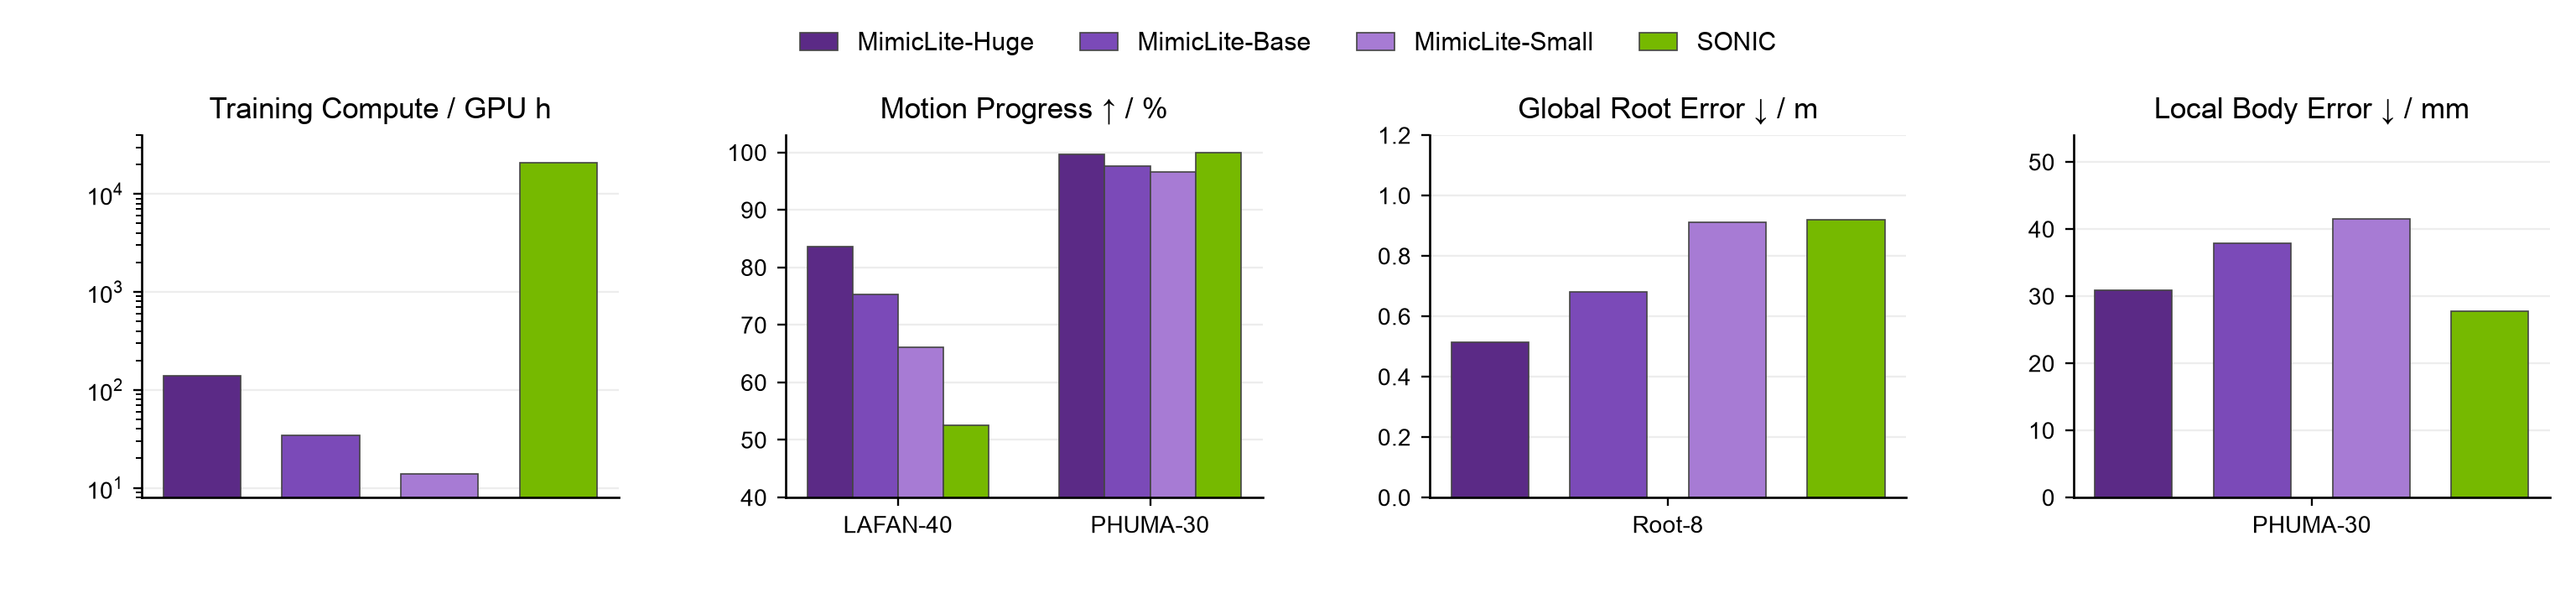
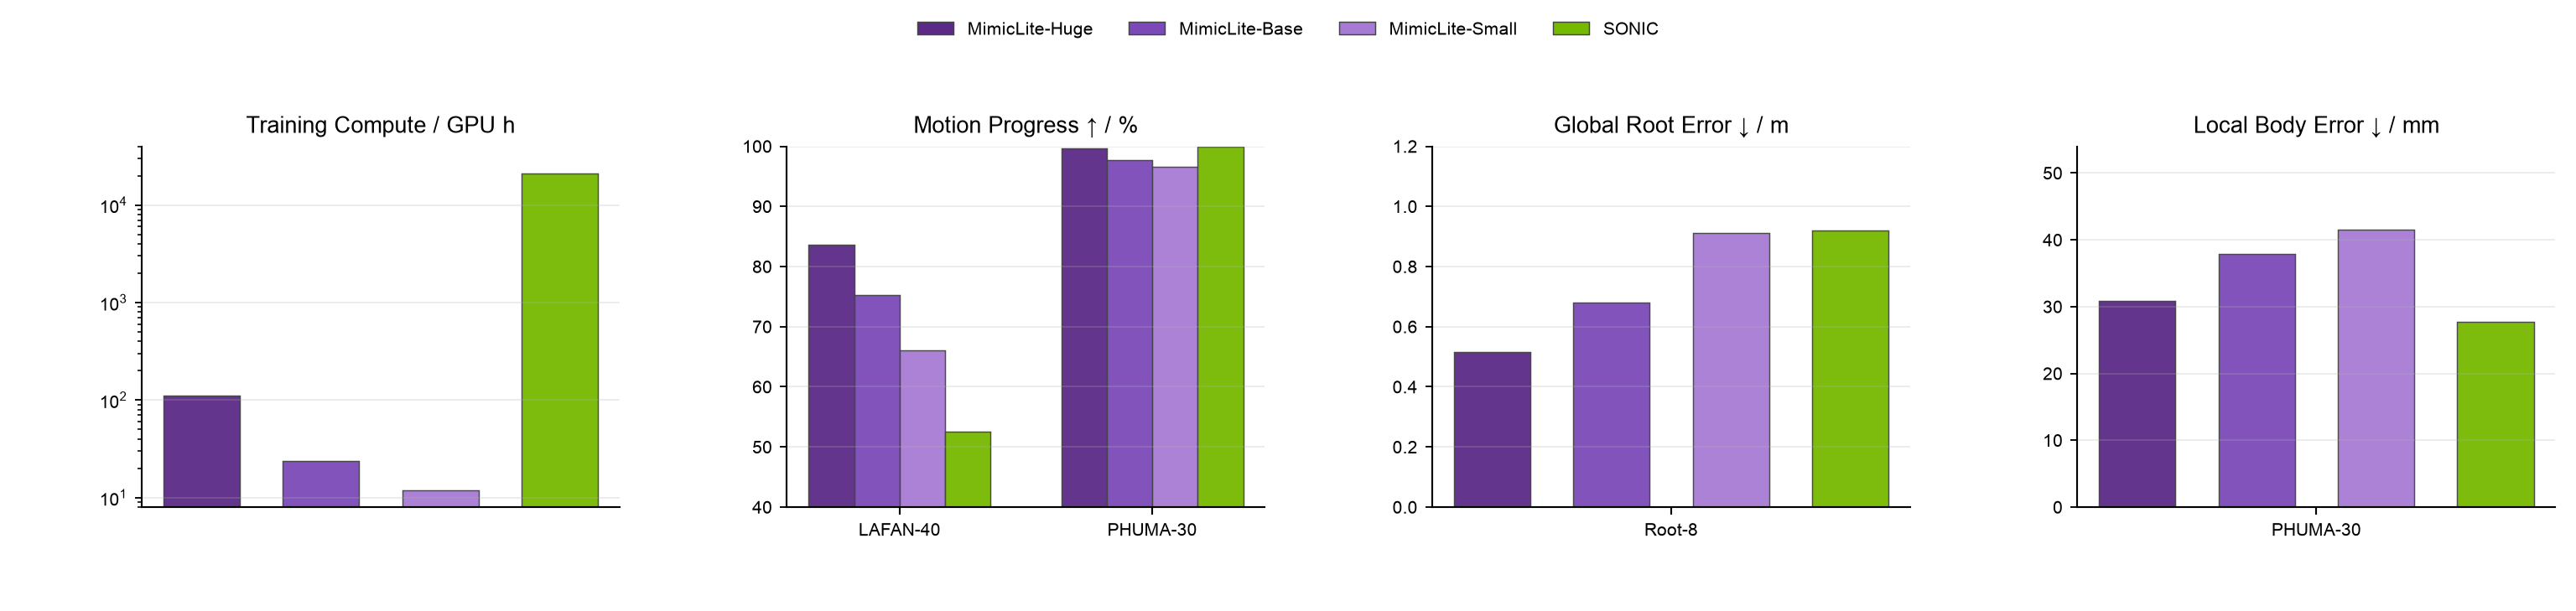
Publish the measured RTX 4090 efficiency results
Align the paper, landing-page compute table, and README comparison graphic with the completed 4090 benchmarks, and place the current manuscript at the repository root.

Constraint: Keep released checkpoint links separate from the runs used to estimate current training compute.

Rejected: Retain the reports tree | the requested distribution has one root-level mimic-lite.pdf.

Confidence: high

Scope-risk: narrow

Tested: Recompiled 19-page manuscript; visually inspected capability table, efficiency plot, and README comparison graphic; git diff check passed.

Not-tested: GitHub rendering before push.

diff --git a/README.md b/README.md
@@ -2,7 +2,9 @@
 
 # MimicLite
 
-MimicLite is an efficient, general humanoid motion-tracking system that can train a deployable policy in 3.1 hours on four RTX 4090 GPUs while retaining competitive tracking quality. Under a matched MuJoCo evaluation, MimicLite improves global root tracking over SONIC while achieving comparable local tracking accuracy. The same policy supports low-latency Pico-driven teleoperation and highly dynamic motion tracking on a physical Unitree G1.
+MimicLite is an efficient, general humanoid motion-tracking system that can train a deployable policy in 3 hours on 8 RTX 4090 GPUs while retaining competitive tracking quality. Under a matched MuJoCo evaluation, MimicLite improves global root tracking over SONIC while achieving comparable local tracking accuracy. The same policy supports low-latency Pico-driven teleoperation and highly dynamic motion tracking on a physical Unitree G1.
+
+The technical report is available at [`mimic-lite.pdf`](mimic-lite.pdf).
 
 ## Project Repositories
 
@@ -17,15 +19,15 @@ This repository is the project landing page. Training, evaluation, dataset conve
 
 ## Released Checkpoints
 
-The released checkpoint set contains three PPO policies trained for 4,000 iterations. GPU-hours are computed from the checkpoint-matched run runtime and world size; the table and evaluation figure use the same checkpoints.
+The released checkpoint set contains three PPO policies trained for 4,000 iterations. The wall-clock column reports the 4,000-update training time on RTX 4090 GPUs. The tracking panels below evaluate the released checkpoints listed in the table.
 
-| Policy | Actor hidden dimensions | Parallel environments | Checkpoint | Training compute |
+| Policy | Actor hidden dimensions | Parallel environments | Checkpoint | Wall-clock time |
 | --- | --- | ---: | --- | ---: |
-| MimicLite-Huge | `[1024, 1024, 1024]` | `32 × 8192` | [`xua2csee`](https://wandb.ai/elijahgalahad/mimic_lite/runs/xua2csee) | 139.71 GPU h |
-| MimicLite-Base | `[256, 256, 256]` | `8 × 8192` | [`iij0q0b5`](https://wandb.ai/elijahgalahad/mimic_lite/runs/iij0q0b5) | 34.70 GPU h |
-| MimicLite-Small | `[128, 128, 128]` | `4 × 8192` | [`zb9e19ih`](https://wandb.ai/elijahgalahad/mimic_lite/runs/zb9e19ih) | 13.79 GPU h |
+| MimicLite-Huge | `[1024, 1024, 1024]` | `32 × 8192` | [`xua2csee`](https://wandb.ai/elijahgalahad/mimic_lite/runs/xua2csee) | 3 h 30 min |
+| MimicLite-Base | `[256, 256, 256]` | `8 × 8192` | [`iij0q0b5`](https://wandb.ai/elijahgalahad/mimic_lite/runs/iij0q0b5) | 2 h 57 min |
+| MimicLite-Small | `[128, 128, 128]` | `4 × 8192` | [`zb9e19ih`](https://wandb.ai/elijahgalahad/mimic_lite/runs/zb9e19ih) | 3 h 00 min |
 
-The 3.1-hour result above is the latest four-GPU system acceptance result. The checkpoint table retains the measured compute of the released, evaluation-matched variants shown below rather than mixing results from different runs.
+Training-time sources: Huge [`55ie49o5`](https://wandb.ai/elijahgalahad/mimic_lite/runs/55ie49o5), Base [`07k900hl`](https://wandb.ai/elijahgalahad/mimic_lite/runs/07k900hl), and Small [`akq50h1n`](https://wandb.ai/elijahgalahad/mimic_lite/runs/akq50h1n).
 
 ![MimicLite checkpoint scaling and SONIC comparison](assets/mimiclite_vs_sonic_readme.png)
 

diff --git a/README_cn.md b/README_cn.md
@@ -2,7 +2,9 @@
 
 # MimicLite
 
-MimicLite 是一个高效、通用的人形机器人动作跟踪系统，可在 4 张 RTX 4090 上约 3.1 小时训练出可部署策略，同时保持有竞争力的跟踪效果。在统一的 MuJoCo 评测中，MimicLite 的全局根节点跟踪优于 SONIC，局部跟踪精度与其相当。同一策略已支持 Unitree G1 真机上的低延迟 Pico 实时遥操作和高动态动作跟踪。
+MimicLite 是一个高效、通用的人形机器人动作跟踪系统，可在 8 张 RTX 4090 上用 3 小时训练出可部署策略，同时保持有竞争力的跟踪效果。在统一的 MuJoCo 评测中，MimicLite 的全局根节点跟踪优于 SONIC，局部跟踪精度与其相当。同一策略已支持 Unitree G1 真机上的低延迟 Pico 实时遥操作和高动态动作跟踪。
+
+技术报告位于 [`mimic-lite.pdf`](mimic-lite.pdf)。
 
 ## 项目仓库
 
@@ -17,15 +19,15 @@ MimicLite 是一个高效、通用的人形机器人动作跟踪系统，可在 
 
 ## 已发布 Checkpoint
 
-目前发布 3 个训练 4,000 iterations 的 PPO 策略。GPU-hours 根据对应 checkpoint 的训练 runtime 和 world size 计算；下表和后续评测图使用完全相同的 checkpoint。
+目前发布 3 个训练 4,000 iterations 的 PPO 策略。训练时间列给出在 RTX 4090 上完成 4,000 updates 的 wall-clock time。下方跟踪性能图评测表中列出的正式发布 checkpoint。
 
-| 策略 | Actor hidden dimensions | 并行环境 | Checkpoint | 训练算力 |
+| 策略 | Actor hidden dimensions | 并行环境 | Checkpoint | 训练时间 |
 | --- | --- | ---: | --- | ---: |
-| MimicLite-Huge | `[1024, 1024, 1024]` | `32 × 8192` | [`xua2csee`](https://wandb.ai/elijahgalahad/mimic_lite/runs/xua2csee) | 139.71 GPU h |
-| MimicLite-Base | `[256, 256, 256]` | `8 × 8192` | [`iij0q0b5`](https://wandb.ai/elijahgalahad/mimic_lite/runs/iij0q0b5) | 34.70 GPU h |
-| MimicLite-Small | `[128, 128, 128]` | `4 × 8192` | [`zb9e19ih`](https://wandb.ai/elijahgalahad/mimic_lite/runs/zb9e19ih) | 13.79 GPU h |
+| MimicLite-Huge | `[1024, 1024, 1024]` | `32 × 8192` | [`xua2csee`](https://wandb.ai/elijahgalahad/mimic_lite/runs/xua2csee) | 3 小时 30 分钟 |
+| MimicLite-Base | `[256, 256, 256]` | `8 × 8192` | [`iij0q0b5`](https://wandb.ai/elijahgalahad/mimic_lite/runs/iij0q0b5) | 2 小时 57 分钟 |
+| MimicLite-Small | `[128, 128, 128]` | `4 × 8192` | [`zb9e19ih`](https://wandb.ai/elijahgalahad/mimic_lite/runs/zb9e19ih) | 3 小时 00 分钟 |
 
-上文的 3.1 小时是最新 4-GPU 系统验收结果。为避免混用不同 run 的训练成本和评测指标，checkpoint 表保留后续对比图中 3 个正式发布、完成配套评测的策略实测 GPU-hours。
+训练时间来源：Huge [`55ie49o5`](https://wandb.ai/elijahgalahad/mimic_lite/runs/55ie49o5)、Base [`07k900hl`](https://wandb.ai/elijahgalahad/mimic_lite/runs/07k900hl)、Small [`akq50h1n`](https://wandb.ai/elijahgalahad/mimic_lite/runs/akq50h1n)。
 
 ![MimicLite checkpoint 规模与 SONIC 对比](assets/mimiclite_vs_sonic_readme.png)
 